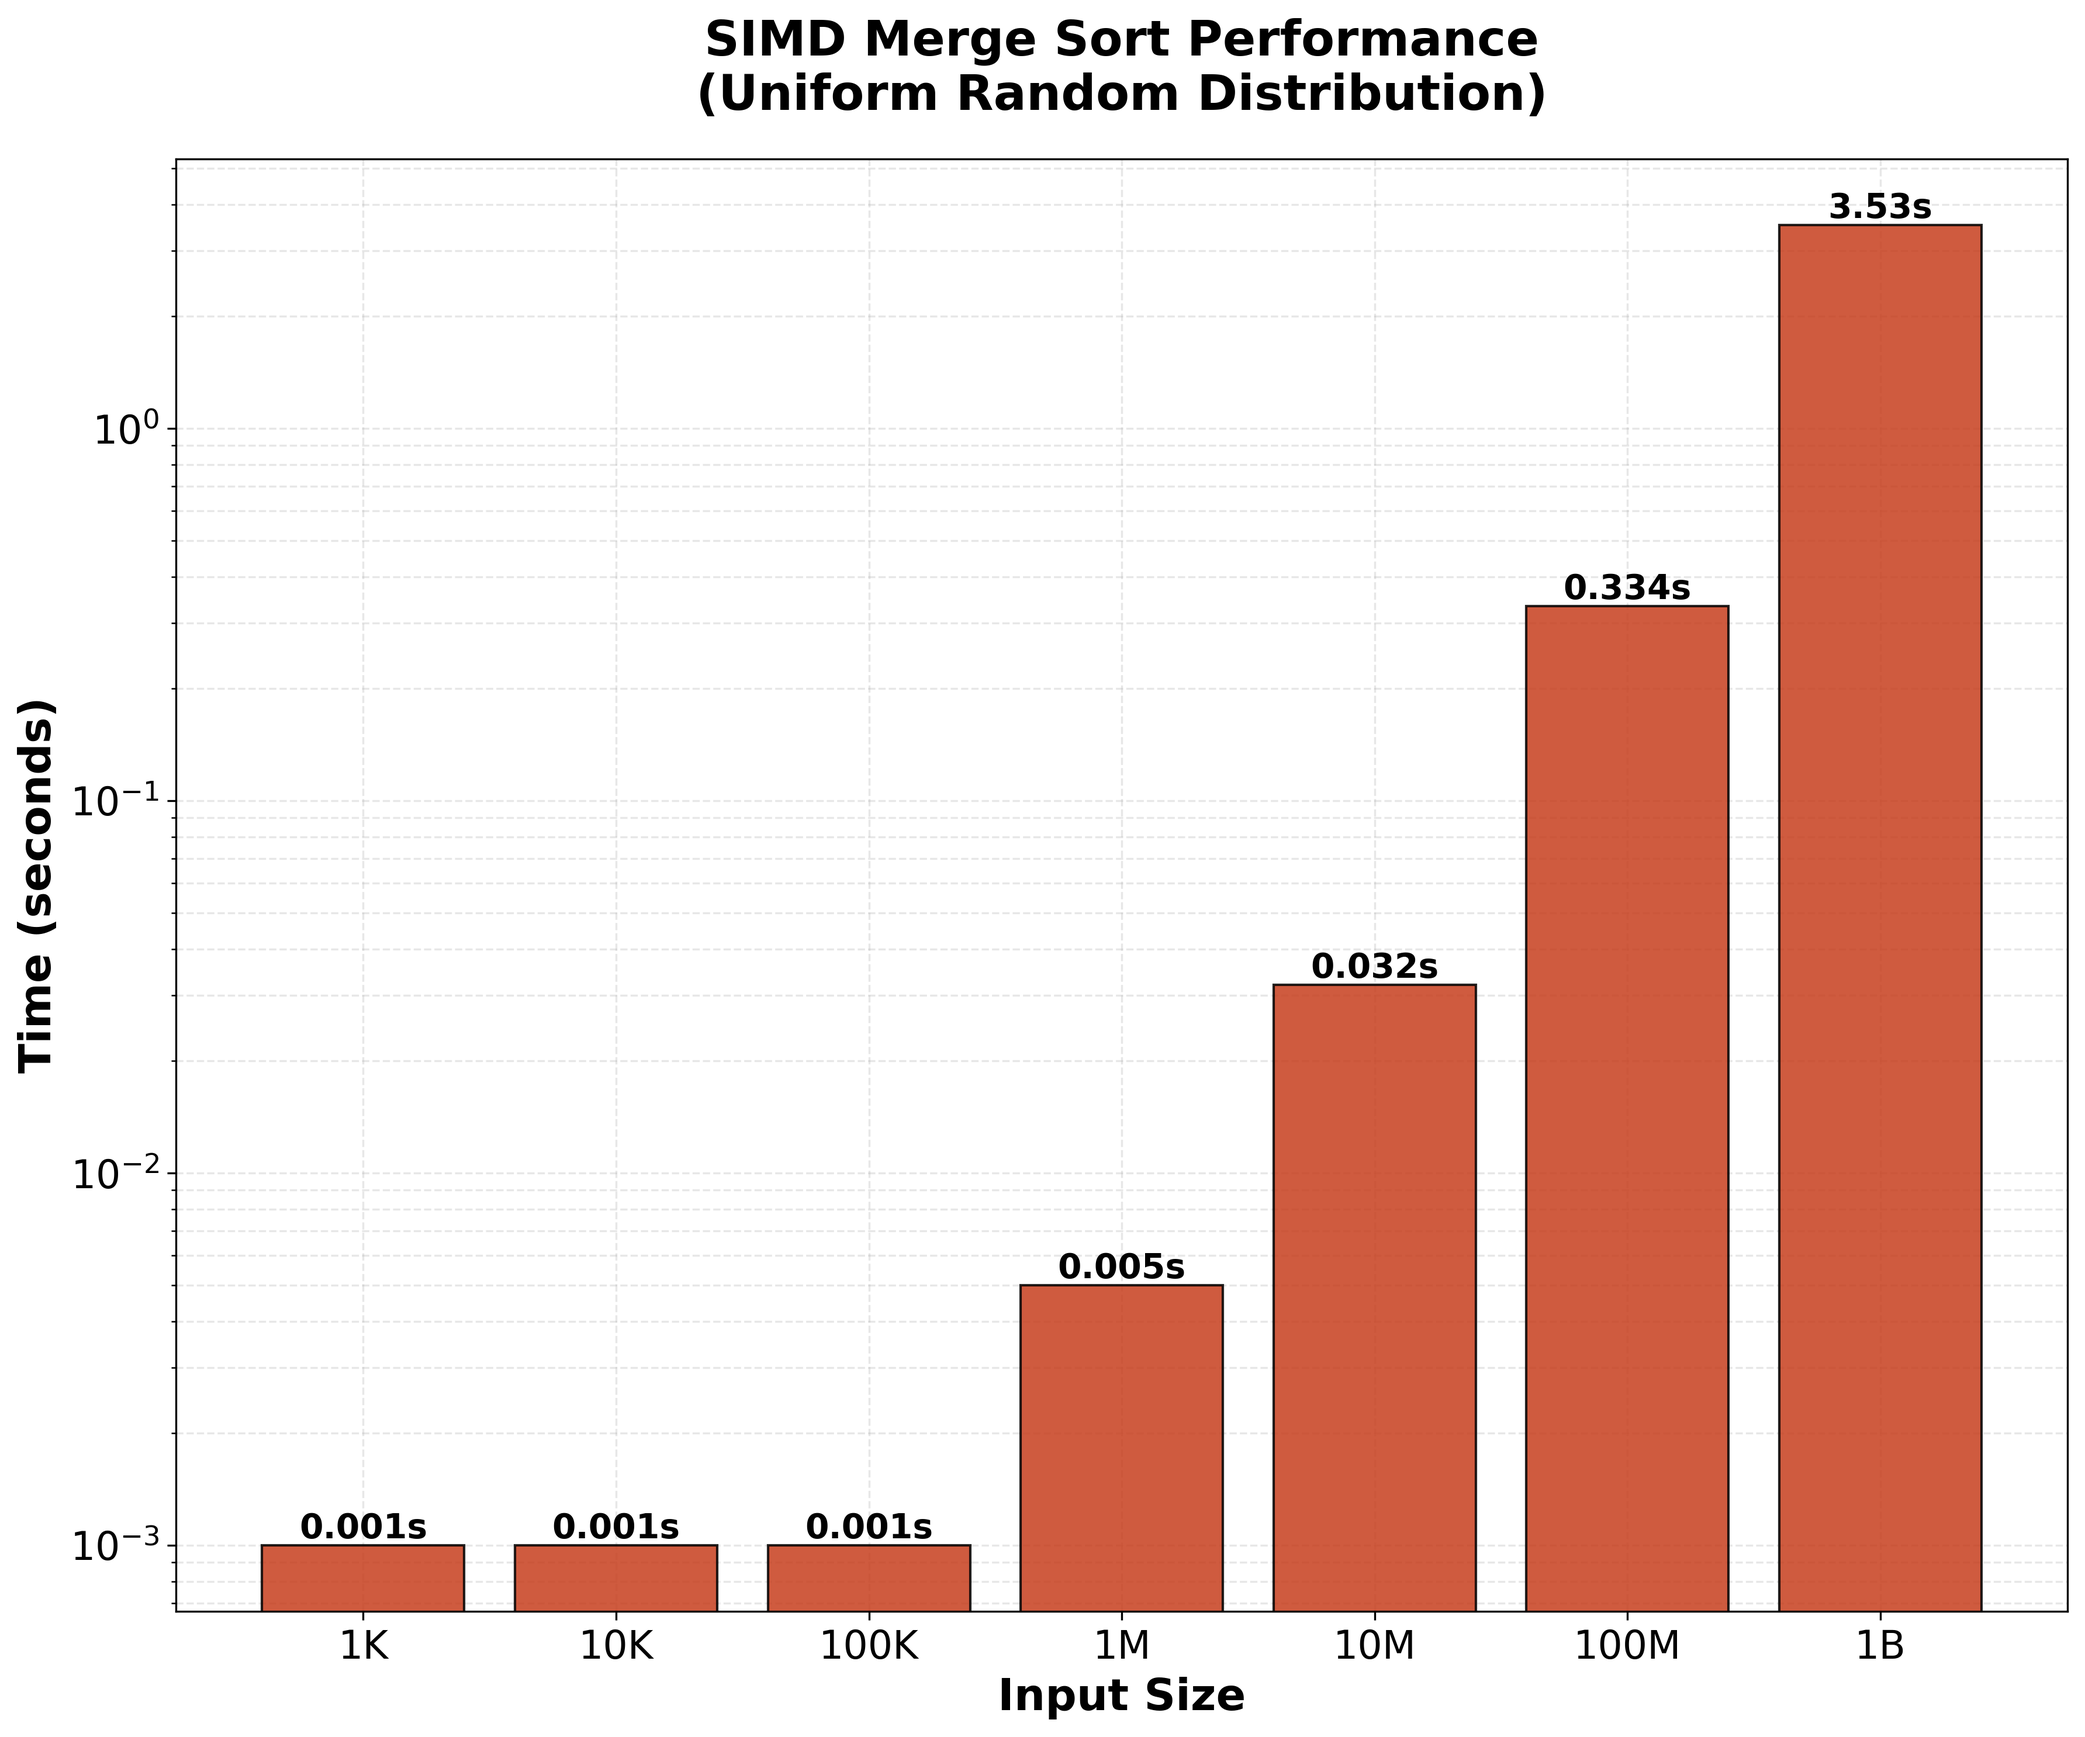
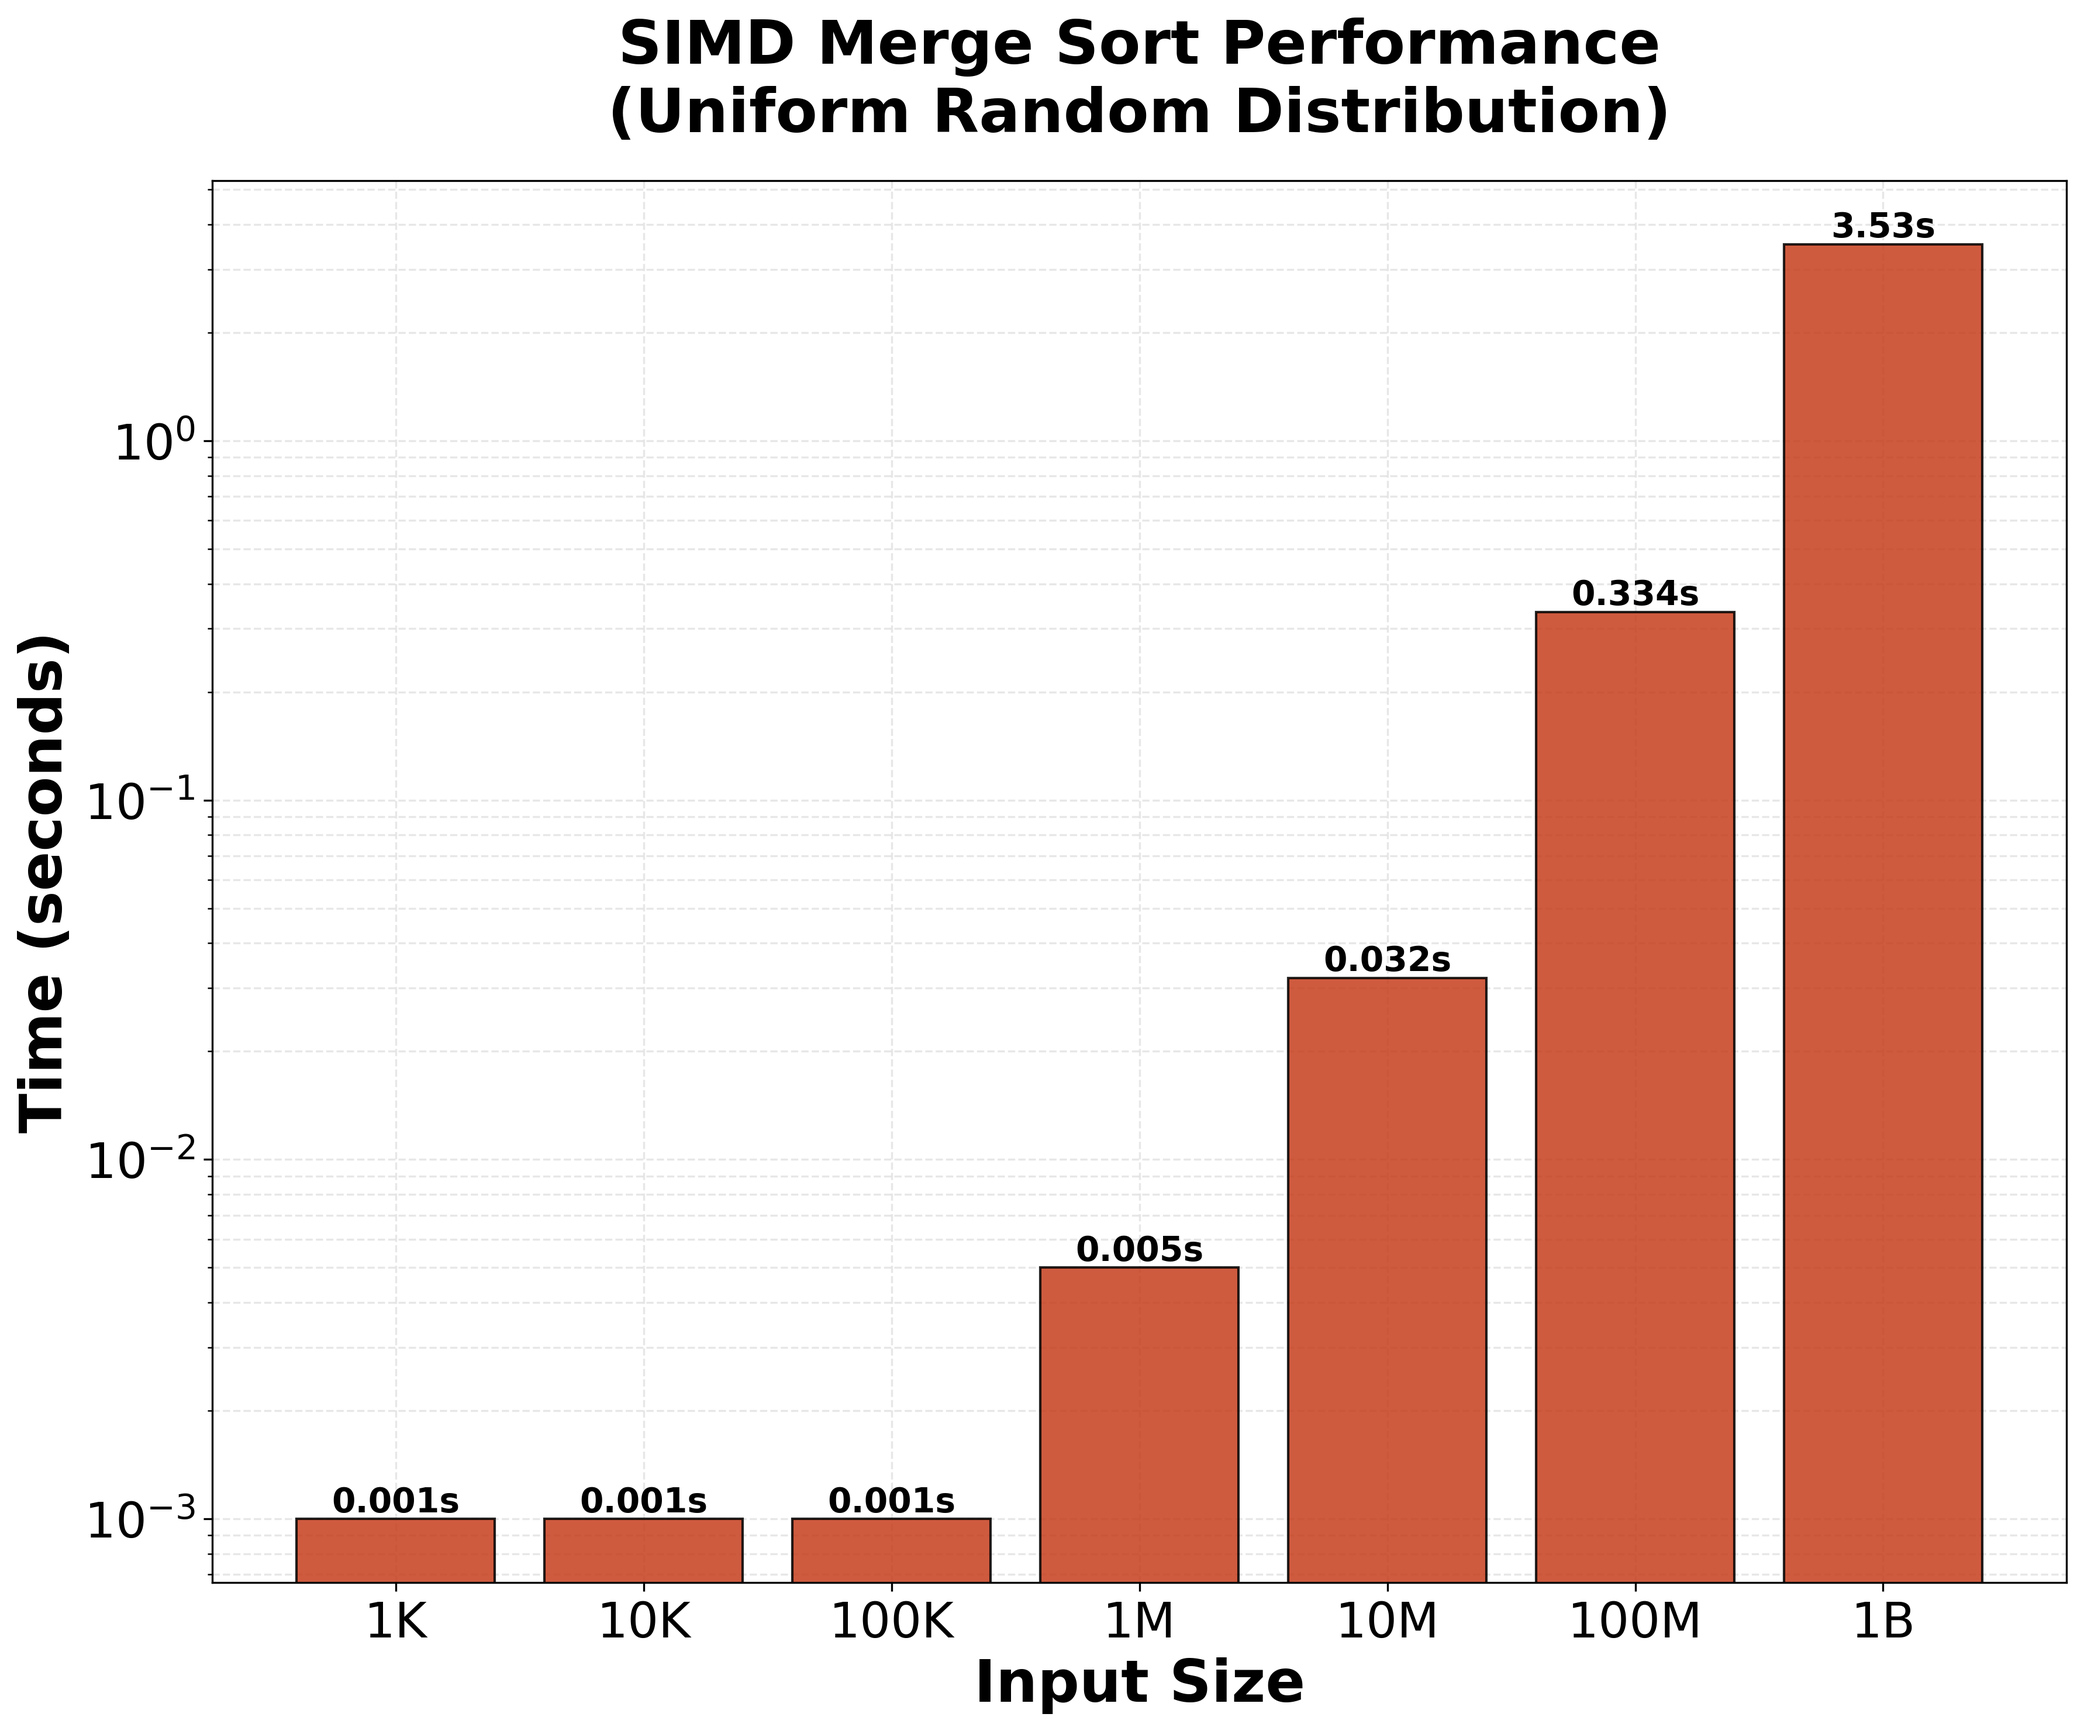
plotting fix

diff --git a/plot_benchmark_results.py b/plot_benchmark_results.py
@@ -172,7 +172,7 @@ def plot_combined_summary(results, output_file='benchmark_summary.png'):
     
     # Title with larger font
     ax.set_title('Merge Sort Performance Comparison\n(1 Billion Elements, Multiple Data Distributions)',
-                fontsize=26, fontweight='bold', pad=20)
+                fontsize=25, fontweight='bold', pad=20)
     
     # Legend with larger font
     ax.legend(loc='upper right', framealpha=0.9, fontsize=18)
@@ -228,19 +228,19 @@ def plot_simd_uniform(simd_data, output_file='benchmark_simd_uniform.png'):
                    label, ha='center', va='bottom', 
                    fontsize=14, fontweight='bold')
     
-    # Customize axes with larger fonts
-    ax.set_xlabel('Input Size', fontsize=18, fontweight='bold')
-    ax.set_ylabel('Time (seconds)', fontsize=18, fontweight='bold')
+    # Customize axes with larger fonts (matching summary plot)
+    ax.set_xlabel('Input Size', fontsize=24, fontweight='bold')
+    ax.set_ylabel('Time (seconds)', fontsize=24, fontweight='bold')
     ax.set_xticks(x)
-    ax.set_xticklabels(size_labels, fontsize=16)
-    ax.tick_params(axis='y', labelsize=16)
+    ax.set_xticklabels(size_labels, fontsize=20)
+    ax.tick_params(axis='y', labelsize=20)
     
     # Set y-axis to log scale
     ax.set_yscale('log')
     
-    # Title with larger font
+    # Title with larger font (one size smaller than summary)
     ax.set_title('SIMD Merge Sort Performance\n(Uniform Random Distribution)',
-                fontsize=20, fontweight='bold', pad=20)
+                fontsize=25, fontweight='bold', pad=20)
     
     # Grid
     ax.grid(True, alpha=0.3, linestyle='--', which='both')
